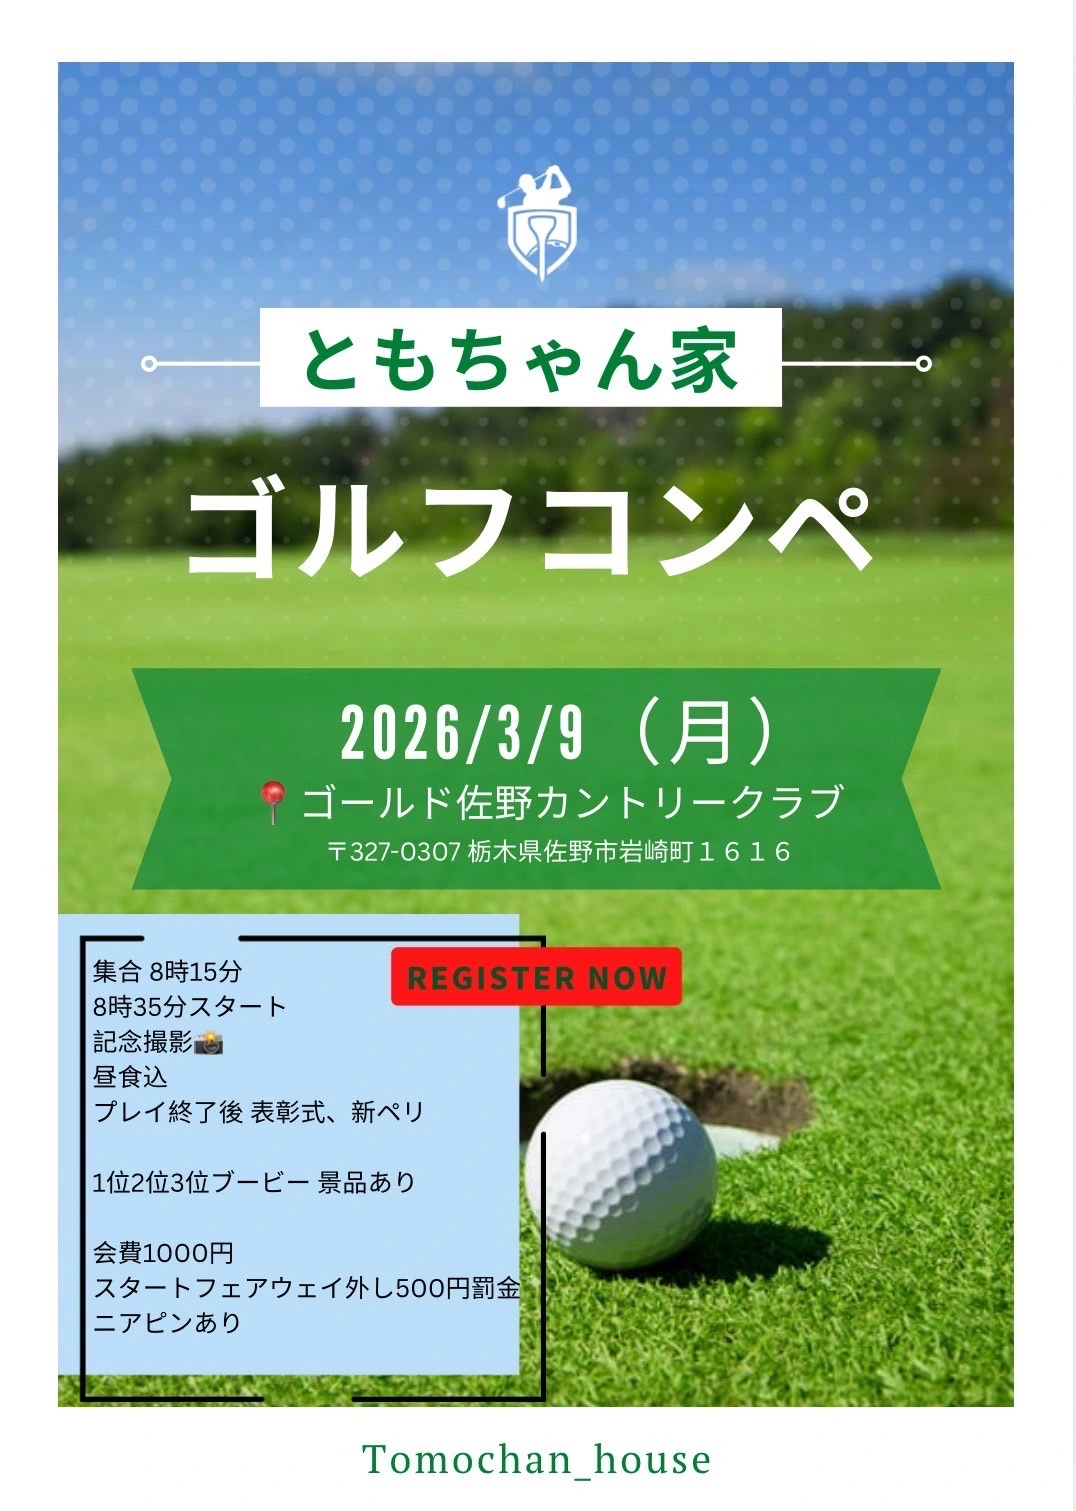
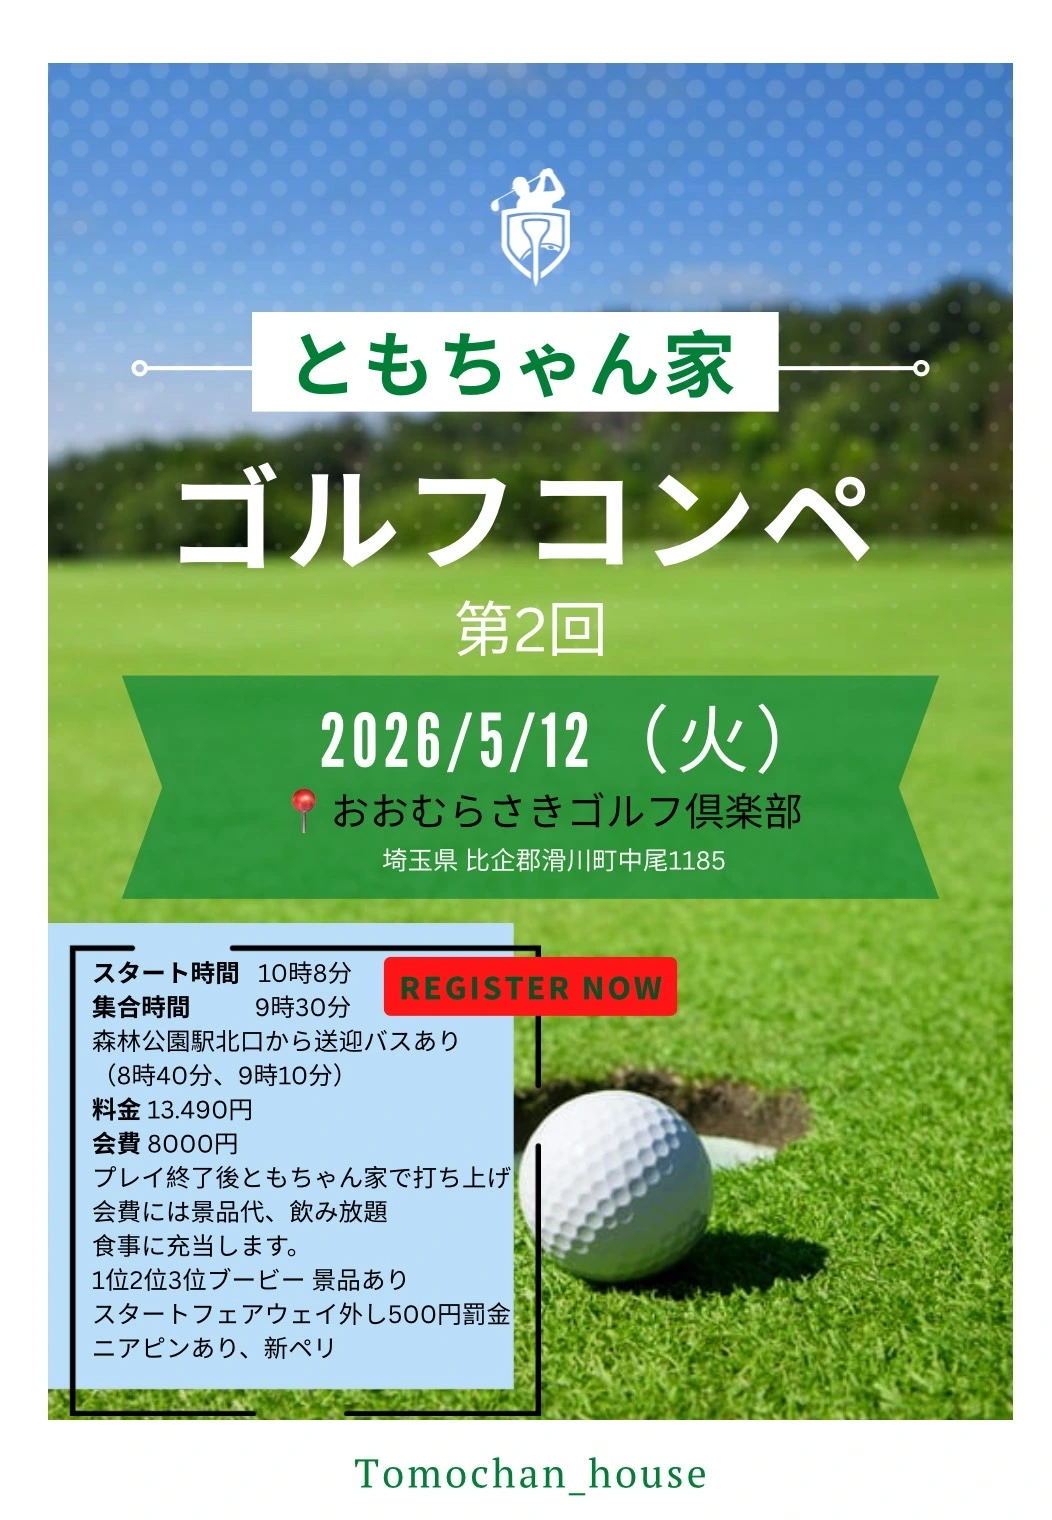
add new event

diff --git a/src/content/siteContent.ts b/src/content/siteContent.ts
@@ -391,33 +391,28 @@ export const siteContent = {
     calendar: {
       month: 3,
       year: 2026,
-      closedDates: [1, 2, 8, 9,15,19,22],
+      closedDates: [1, 2, 8, 9, 15, 19, 22],
       specialDates: [{ date: 9, label: "ゴルフコンペ開催", emoji: "⛳" }],
     },
     specialEvent: {
-      title: "ゴルフコンペ 2026年3月9日（月）",
-      date: "2026年3月9日（月）",
+      title: "ゴルフコンペ第2回 2026年5月12日（火）",
+      date: "2026年5月12日（火）",
       description:
-        "ともちゃん家関連企画でゴルフコンペを開催します。ゴールド佐野カントリークラブにて、楽しいイベントをお楽しみください。",
+        "ともちゃん家関連企画でゴルフコンペ第2回を開催します。おおむらさきゴルフ倶楽部にて、楽しいイベントをお楽しみください。プレイ終了後はともちゃん家で打ち上げ！",
       image: "/images/events/golf-tournament.webp",
       details: [
         {
           icon: "📍",
           label: "会場",
-          value: "ゴールド佐野カントリークラブ（栃木県佐野市）",
+          value: "おおむらさきゴルフ倶楽部",
         },
-        { icon: "🕐", label: "時間", value: "集合 8時15分 / スタート 8時35分" },
-        { icon: "⏱", label: "プレー形式", value: "前半終了後 表彰式、新ぺリ" },
-        {
-          icon: "💰",
-          label: "会費",
-          value: "1,000円 + スタートフェア外(L500円割引あり)",
-        },
-        {
-          icon: "🏆",
-          label: "特典",
-          value: "1位2位3位 ブービー賞、賞品あり",
-        },
+        { icon: "🕐", label: "集合時間", value: "9時30分" },
+        { icon: "⛳", label: "スタート時間", value: "10時8分" },
+        { icon: "🚌", label: "送迎バス", value: "森林公園駅北口から出発（8時40分、9時10分）" },
+        { icon: "💰", label: "ゴルフ料金", value: "13,490円" },
+        { icon: "🍻", label: "会費", value: "8,000円（景品代・打ち上げ飲み放題食事に充当）" },
+        { icon: "🏆", label: "賞品", value: "1位2位3位・ブービー・ニアピン景品あり" },
+        { icon: "⚠", label: "ルール", value: "新ペリ・スタートフェアウェイ外し500円罰金" },
       ],
       cta: {
         label: "詳細・申込はInstagramへ",

diff --git a/src/styles/global.css b/src/styles/global.css
@@ -17,12 +17,19 @@ main {
 
 /* Custom components */
 @layer components {
+  /* Japanese text line breaking */
   .hero-title {
     @apply text-5xl md:text-6xl font-bold text-warm-900 leading-tight;
+    line-break: strict;
+    word-break: break-word;
+    overflow-wrap: break-word;
   }
 
   .section-title {
-    @apply text-4xl md:text-5xl font-bold text-warm-900 mb-8;
+    @apply text-3xl md:text-4xl font-bold text-warm-900 mb-8;
+    line-break: strict;
+    word-break: break-word;
+    overflow-wrap: break-word;
   }
 
   .btn-primary {
@@ -39,6 +46,9 @@ main {
 
   .card {
     @apply bg-white rounded-xl p-6 shadow-soft hover:shadow-lg transition-shadow duration-300;
+    line-break: strict;
+    word-break: break-word;
+    overflow-wrap: break-word;
   }
 
   .section-divider {
@@ -194,23 +204,38 @@ body {
 
 p {
   font-size: clamp(0.95rem, 1.8vw, 1rem);
+  line-break: strict;
+  word-break: break-word;
+  overflow-wrap: break-word;
 }
 
 /* Headings with fluid typography */
 h1 {
   font-size: clamp(1.5rem, 6vw, 2.5rem);
+  line-break: strict;
+  word-break: break-word;
+  overflow-wrap: break-word;
 }
 
 h2 {
   font-size: clamp(1.3rem, 5vw, 2rem);
+  line-break: strict;
+  word-break: break-word;
+  overflow-wrap: break-word;
 }
 
 h3 {
   font-size: clamp(1.15rem, 4vw, 1.5rem);
+  line-break: strict;
+  word-break: break-word;
+  overflow-wrap: break-word;
 }
 
 h4 {
   font-size: clamp(1rem, 3vw, 1.25rem);
+  line-break: strict;
+  word-break: break-word;
+  overflow-wrap: break-word;
 }
 
 /* Component-specific fluid typography */
@@ -235,4 +260,11 @@ button,
 a,
 span {
   font-size: clamp(0.95rem, 1.8vw, 1rem);
+}
+
+/* Japanese text in all elements */
+* {
+  line-break: strict;
+  word-break: break-word;
+  overflow-wrap: break-word;
 }
